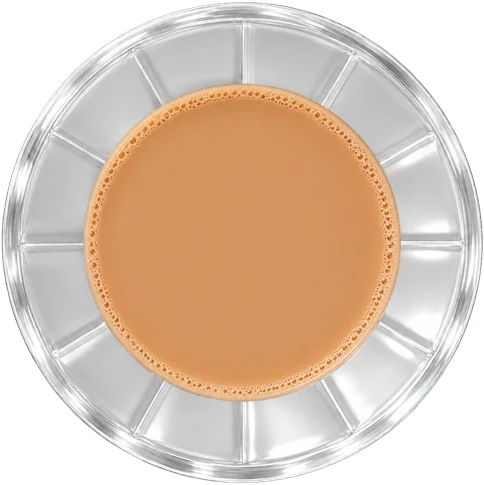
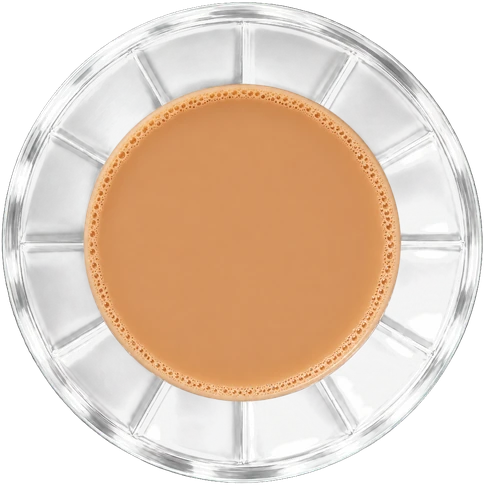
next/: nani-jo-ghar-game 7bdd41d (fifth play's fixes: no hard corner, clear glass, Nani's hint steady, the pan calms, the word moment's glasses cut round the glass)
Claude-Session: https://claude.ai/code/session_014xb3kTCXLjepSiytb8fhVF

Changed region(s): [[0.0, 0.0, 0.9917, 0.9897], [0.5579, 0.9588, 0.5888, 0.9897]]

diff --git a/next/css/kit.css b/next/css/kit.css
@@ -17,9 +17,9 @@ html, body { margin: 0; height: 100%; overflow: hidden; background: var(--page);
 #page { display: flex; width: 100%; height: 100vh; height: 100dvh; height: var(--page-h, 100dvh); overflow: hidden; }
 /* on a tablet the panel and the page's own buttons grow by the screen's scale (--s is 1 on a phone and a laptop) */
 #side, .bubble, .replies, .cog-rail { zoom: var(--s); }
-#side { width: calc(var(--side-w) / var(--s)); flex: none; box-sizing: border-box; background-color: var(--stone); background-size: 256px; padding: calc(var(--pad) * var(--p) * 0.8 + var(--pad) * 0.2 * (1 - (1 - var(--p)) * 5 / 1.7)); display: flex; flex-direction: column; gap: calc(var(--pad) * var(--p) * 0.8); overflow: hidden; }
-:root:not(.phone) #side { padding: var(--pad); gap: var(--pad); }
-:root.phone #side { padding: calc(var(--pad) * 0.528); gap: calc(var(--pad) * 0.53); }
+#side { --side-pad: calc(var(--pad) * var(--p) * 0.8 + var(--pad) * 0.2 * (1 - (1 - var(--p)) * 5 / 1.7)); width: calc(var(--side-w) / var(--s)); flex: none; box-sizing: border-box; background-color: var(--stone); background-size: 256px; padding: var(--side-pad); display: flex; flex-direction: column; gap: calc(var(--pad) * var(--p) * 0.8); overflow: hidden; }
+:root:not(.phone) #side { --side-pad: var(--pad); gap: var(--pad); }
+:root.phone #side { --side-pad: calc(var(--pad) * 0.528); gap: calc(var(--pad) * 0.53); }
 #play { position: relative; flex: 1; min-width: 0; overflow: hidden; background: var(--stone); }
 #canvas, #over { position: absolute; inset: 0; }
 #canvas canvas { display: block; }
@@ -96,10 +96,13 @@ button { padding: 0; cursor: pointer; }
 /* order cards */
 #cards { margin-top: var(--cards-top); }
 :root.phone #cards { margin-top: var(--cards-top-phone); }
+/* (the list reaches the panel's own edges, its cards kept in by the panel's padding: a list that scrolls clips, and its edge then
+   lies on the panel's, so a card's shadow is never cut short at an edge nobody sees) */
+#cards { margin-left: calc(-1 * var(--side-pad)); margin-right: calc(-1 * var(--side-pad)); padding-left: var(--side-pad); padding-right: var(--side-pad); }
 #cards { flex: 1; min-height: 0; overflow-y: auto; overflow-anchor: none; display: flex; flex-direction: column; gap: calc(var(--cards-gap) * var(--p)); scrollbar-width: none; }
 /* the list's soft foot (the standard's): a card running off the panel's foot fades rather than being cut hard; the list keeps
    that much room below its last card, and more (--room, js/shared/kit/order-panel.js) where it must rest at a card's top */
-#cards { --fade: calc(var(--panel-fade) * var(--p)); padding-bottom: calc(var(--fade) + var(--room, 0px)); -webkit-mask-image: linear-gradient(black calc(100% - var(--fade)), transparent); mask-image: linear-gradient(black calc(100% - var(--fade)), transparent); }
+#cards { --fade: calc(var(--panel-fade) * var(--p)); padding-bottom: calc(var(--fade) + var(--room, 0px)); -webkit-mask-image: linear-gradient(rgb(0 0 0 / calc(1 - var(--fade-t, 0))), black var(--rest, 0px), black calc(100% - var(--fade)), transparent); mask-image: linear-gradient(rgb(0 0 0 / calc(1 - var(--fade-t, 0))), black var(--rest, 0px), black calc(100% - var(--fade)), transparent); }
 /* folded, a card is as tall as its top line and padding, never under a tap's height, its line in the middle */
 .ocard { flex: none; box-sizing: border-box; min-height: var(--tap); display: flex; flex-direction: column; justify-content: center; background: var(--card-bg); border: 1px solid var(--card-border); border-radius: calc(var(--radius) * var(--p)); box-shadow: var(--card-shadow); padding: calc(var(--card-pad) * var(--p) * 0.75 + var(--card-pad) * 0.25 * (var(--p) - 0.66) / 0.34); }
 .ocard[hidden] { display: none; }
@@ -320,8 +323,8 @@ button { padding: 0; cursor: pointer; }
 .wo-row { display: flex; justify-content: center; align-items: flex-start; gap: var(--wo-gap); padding: 2px; box-sizing: content-box; }
 .wo-row.two { flex-wrap: wrap; justify-content: center; width: calc(var(--wo-per) * var(--wo-iw) + (var(--wo-per) - 1) * var(--wo-gap)); }
 .wo-row .icard { flex: 0 0 var(--wo-iw); --pad: max(var(--item-pad-min), var(--wo-pad)); }
-.wo-row .icard.done { border-color: var(--gold); box-shadow: 0 0 0 2px var(--gold), var(--item-shadow); }
-.wo-row .icard.wrong { border-color: var(--kutchi); box-shadow: 0 0 0 2px var(--kutchi), var(--item-shadow); }
+.wo-row .icard.done { border-color: var(--gold); box-shadow: inset 0 0 0 2px var(--gold), var(--item-shadow); }
+.wo-row .icard.wrong { border-color: var(--kutchi); box-shadow: inset 0 0 0 2px var(--kutchi), var(--item-shadow); }
 .wo-row .icard.wrong > .tick { transform: scale(1); background: var(--kutchi); }
 .wo-row .icard.wrong > .tick::after { -webkit-mask-image: var(--cross-mark); mask-image: var(--cross-mark); }
 /* what was short, rising onto its card, is drawn over it */
@@ -354,6 +357,9 @@ button { padding: 0; cursor: pointer; }
 .pop.wm-card .speaker { width: max(var(--tap), calc(var(--pw) * var(--pop-spk-of-w))); height: max(var(--tap), calc(var(--pw) * var(--pop-spk-of-w))); margin: calc(var(--pw) * var(--wm-gap)) 0; box-shadow: none; cursor: pointer; }
 /* a speaker lit while its word is said */
 .speaker.on { animation: speaker-on var(--speaker-pulse-ms) ease-out infinite; }
+/* in the side panel a lit speaker is old chai's: a steady ring, no pulse, drawn inside its own tap room (every box there clips,
+   so nothing in it may reach further than the room round it) */
+#side .speaker.on { animation: none; outline: calc(var(--speaker-on-ring) * var(--p)) solid var(--speaker-on-color); outline-offset: calc(-1 * var(--b, 0px)); }
 @keyframes speaker-on { from { box-shadow: 0 0 0 0 var(--speaker-pulse); } to { box-shadow: 0 0 0 var(--speaker-pulse-r) transparent; } }
 
 /* the end screen */

diff --git a/next/js/shared/kit/order-panel.js b/next/js/shared/kit/order-panel.js
@@ -9,16 +9,20 @@
  *   - it is measured only once every card opening or folding and Nani's helper sliding has ended (their times are
  *     data/kit.json's, read from the transitions themselves), and then glides there in one move; meanwhile the card in focus
  *     keeps its place on screen as cards above it open or fold, and one cut at the top as it comes into focus is led into
- *     view at once.
+ *     view at once;
+ *   - scrolled, its top fades over that rest, so the shadow of a card out of view above never shows a hard edge.
  * The child may still scroll the list by hand; nothing here fights a finger.
  *
- *   const panel = panelOf(host, { kit })     one per list, kept across rounds
+ *   const panel = panelOf(host, { kit })     one per list, kept across rounds      listStill(host) -> Promise
  *   panel.reset()  panel.track(el)  panel.watchRow(row, fn)  panel.focus(el | null)  panel.changed(ms?)
  *   panel.still() -> Promise (nothing moving, nothing due)
  */
 import { boxIn } from "../frame.js";
 
 const panels = new WeakMap();
+
+/** Resolves once the list on this host is at rest (at once if it has none): the checks measure only a resting list. */
+export const listStill = (host) => (panels.has(host) ? panels.get(host).still() : Promise.resolve());
 
 export function panelOf(host, { kit }) {
   if (!panels.has(host)) panels.set(host, createPanel(host, kit));
@@ -84,6 +88,17 @@ function createPanel(host, kit) {
 
   // a rest a little above a card's top, never as far as the gap: the card above stays wholly out by edgeKeep px at least
   const restAbove = () => Math.min(P.edge, Math.max(0, px(getComputedStyle(host).rowGap) - P.edgeKeep));
+  // scrolled, the list's top fades over that rest: a card wholly out of view above still casts its shadow down into it, and
+  // the list's edge would cut that shadow hard, a square at the next card's corner (Zafar, 20 Nov); like a row's sides, it
+  // fades only while there is more that way
+  // (written only as it changes: a change of style wakes the panel's fit, which would re-measure mid-glide)
+  const fadeTop = () => {
+    const rest = restAbove();
+    const t = `${rest > 0 ? Math.max(0, Math.min(1, host.scrollTop / rest)) : 0}`;
+    if (host.style.getPropertyValue("--rest") !== `${rest}px`) host.style.setProperty("--rest", `${rest}px`);
+    if (host.style.getPropertyValue("--fade-t") !== t) host.style.setProperty("--fade-t", t);
+  };
+  host.addEventListener("scroll", fadeTop, { passive: true });
 
   function changed(ms = 0) {
     busyUntil = Math.max(busyUntil, now() + ms);
@@ -164,6 +179,7 @@ function createPanel(host, kit) {
       if (ro) ro.observe(host);
       setRoom(0);
       host.scrollTop = 0;
+      fadeTop();
     },
     track: (el) => ro && ro.observe(el),
     /** fn() whenever a card's row, or any card in it, changes size (its scroll's length with it); let go of at reset. */

diff --git a/next/js/shared/frame.js b/next/js/shared/frame.js
@@ -72,8 +72,10 @@ export function createFrame({ kit }) {
     const dpr = globalThis.devicePixelRatio || 1;
     root.style.setProperty("--dpx", `${1 / dpr}px`);
     frame.now = { ff, scale, w, h, sideW, dpr };
-    fitSide();
+    // (fitted once what listens has laid itself out again at the new size: fitted before, it measured the cards at the old
+    // size and could leave the panel stepped down, the reviewer's find of 20 Nov)
     listeners.forEach((fn) => fn(frame.now));
+    fitSide(true);
   }
 
   // the side panel's own sizes step down while what it holds would not fit: Nani's box and the card being looked at
@@ -81,8 +83,19 @@ export function createFrame({ kit }) {
   const side = document.getElementById("side");
   const cards = document.getElementById("cards");
   let fitting = false;
-  function fitSide() {
+  // Nani's helper opening or shutting never changes the panel's sizes: the list below gives up the room and scrolls (Zafar,
+  // 20 Nov: as it opened, "the text seemed to shrink a little bit, and the arrow ... and all the elements kind of just jiggled
+  // around"); the panel is fitted with her helper shut, and while it is open or sliding only a new size of the screen fits it
+  // again, then only so her box shows whole
+  const helper = () => side && side.querySelector("#nani .helper");
+  const helperOut = () => {
+    const h = helper();
+    return !!h && (h.classList.contains("open") || (h.getAnimations?.() || []).some((a) => a.playState === "running"));
+  };
+  function fitSide(resized = false) {
     if (!side || !frame.now) return;
+    const out = helperOut();
+    if (out && !resized) return;
     fitting = true;
     const base = F.panel[frame.now.ff];
     // a card's words and buttons must fit above the list's soft foot (its own empty foot may lie in the fade); the room the
@@ -90,7 +103,7 @@ export function createFrame({ kit }) {
     const inner = (c) => Math.max(0, ...[c.querySelector(".ocard-top"), ...(c.classList.contains("folded") ? [] : c.querySelectorAll(".icard"))].filter(Boolean).map((el) => boxIn(el, cards).bottom - boxIn(c, cards).top));
     const view = () => cards.clientHeight - (parseFloat(getComputedStyle(cards).paddingBottom) - (parseFloat(cards.style.getPropertyValue("--room")) || 0));
     const tallest = () => Math.max(0, ...[...cards.children].filter((c) => !c.hidden).map(inner));
-    const over = () => side.scrollHeight > side.clientHeight + 1 || tallest() > view() + 1;
+    const over = () => side.scrollHeight > side.clientHeight + 1 || (!out && tallest() > view() + 1);
     let f = 1;
     // (the item cards are sized by the row's width, not by --p: their pictures flatten by the same step, --fit; the style sheet's)
     const step = (k) => (side.style.setProperty("--p", String(base * k)), side.style.setProperty("--fit", String(k)), (side.dataset.fit = String(k)));

diff --git a/next/js/games/chai/mechanic.js b/next/js/games/chai/mechanic.js
@@ -65,6 +65,7 @@ export function drawPan(box, { art, vessel, rim }) {
     layer.name = name;
   }
 
+  let bShown = false; // a look laid over the base one is showing (a boil over the calm tea)
   return {
     show(look, fadeMs = 0) {
       if (pouring) return;
@@ -73,6 +74,7 @@ export function drawPan(box, { art, vessel, rim }) {
       if (fadeMs && A.name !== look.a && !look.b && !fading) {
         // a new look lands: the old one stays while the new one comes in over it
         fading = true;
+        bShown = false;
         dress(B, look.a);
         B.pan.set({ alpha: 0 });
         B.pan.to({ alpha: 1 }, fadeMs, "linear").then(() => {
@@ -83,10 +85,20 @@ export function drawPan(box, { art, vessel, rim }) {
         });
         return;
       }
+      if (fadeMs && A.name === look.a && !look.b && bShown && !fading) {
+        // the look laid over it goes (a boil settling as the heat is turned down): it fades out over the one beneath
+        fading = true;
+        const out = [B.pan.to({ alpha: 0 }, fadeMs, "linear")];
+        if (B.over) out.push(B.over.to({ alpha: 0 }, fadeMs, "linear"));
+        bShown = false;
+        Promise.all(out).then(() => (fading = false));
+        return;
+      }
       if (fading) return;
       dress(A, look.a);
       A.pan.set({ alpha: 1 });
       if (A.over) A.over.set({ alpha: 1 });
+      bShown = !!look.b && look.u > 0;
       if (look.b) {
         dress(B, look.b);
         B.pan.set({ alpha: look.u });

diff --git a/next/js/main.js b/next/js/main.js
@@ -8,6 +8,7 @@ import { createSay } from "./shared/say.js";
 import { createStage } from "./shared/stage.js";
 import { createFrame, setLook } from "./shared/frame.js";
 import { createRunner } from "./shared/runner.js";
+import { listStill } from "./shared/kit/order-panel.js";
 import { newRound, levelsOf } from "./shared/round.js";
 import { loadProgress, saveRound, meetNow, newPlayer, playerName, triedOf, OWN_PLAYER } from "./shared/progress.js";
 import { loadJSON as json } from "./core/env.js";
@@ -70,7 +71,7 @@ async function start() {
         if (ended.choice === "again") play();
       },
     });
-    globalThis.njg = { run, stage, say, scenes, frame }; // for the checks, which play the page as a child would and read where it is
+    globalThis.njg = { run, stage, say, scenes, frame, listStill: () => listStill(stage.el.cards) }; // for the checks, which play the page as a child would and read where it is
     if (offTick) offTick();
     // (behind the turn card the stage is held, so no time passes and nothing boils over)
     offTick = stage.onTick((ms) => !stage.held() && run.send({ type: "time", ms }));

diff --git a/next/js/kitchen/cook.view.js b/next/js/kitchen/cook.view.js
@@ -130,10 +130,14 @@ export function cookView({ stage, say, kit, kitchen, settings, game, people, ui,
     green() {
       ui.sounds.play("green");
     },
-    "turned-down"(e) {
+    "turned-down"(e, s) {
       D.hob.fire(e.vessel, "low");
       D.hob.ring(e.vessel, null);
       D.hob.steam(e.vessel, false);
+      // the boil settles to calm tea at once, so the tea poured is the tea the child sees (Zafar, 20 Nov: "does it rapidly, like
+      // within the space of like 0.2 seconds ... go from boiling tea ... back to calm tea"); the pan is drawn every frame only
+      // while it heats
+      D.vessels[e.vessel].pan.show(lookOf(s, e.vessel), M.calmMs);
       D.serving.undim();
       ui.sounds.play("knob");
     },
